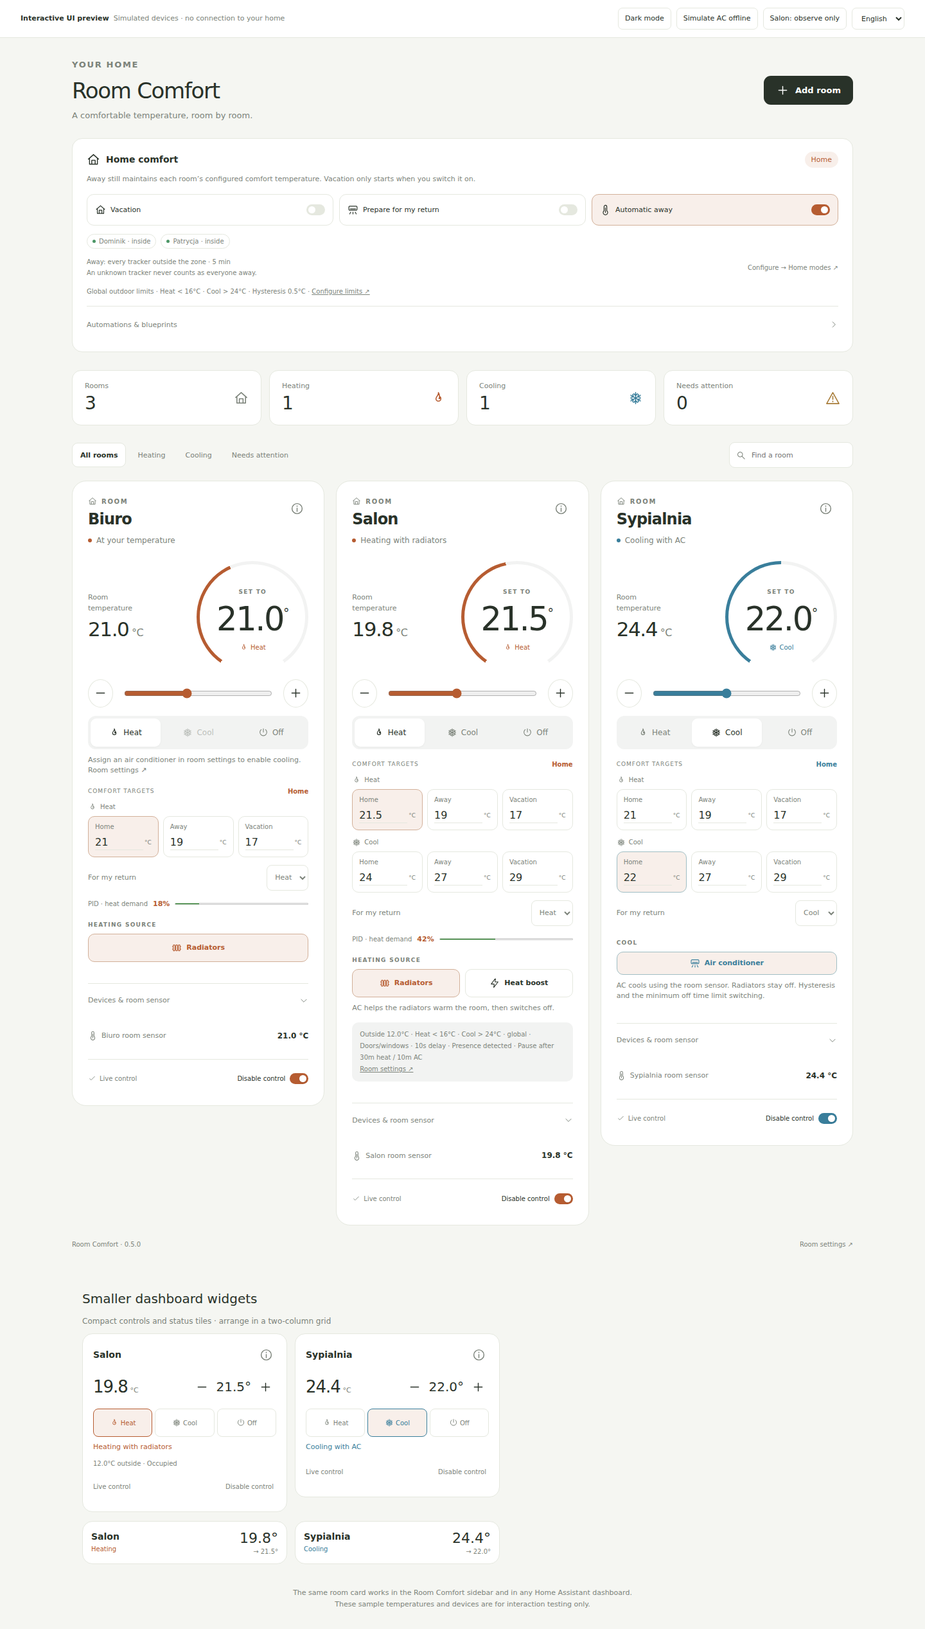
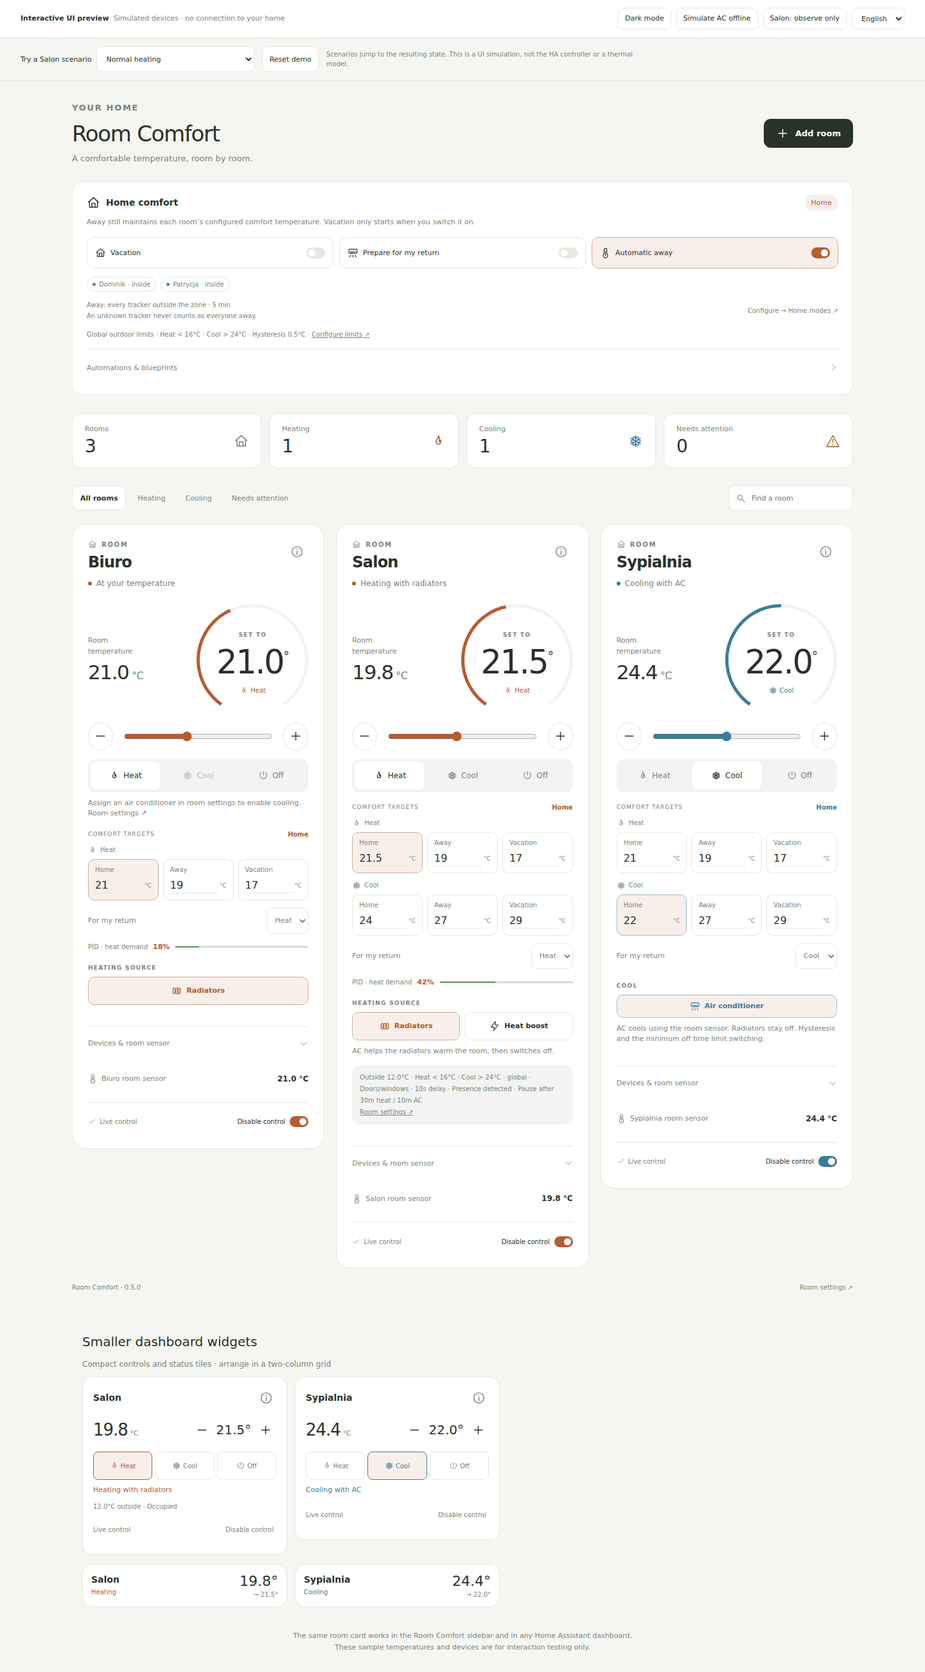
Add interactive GitHub Pages demo with scenario presets and project-path browser checks

diff --git a/preview.html b/preview.html
@@ -3,9 +3,11 @@
 <head>
   <meta charset="utf-8">
   <meta name="viewport" content="width=device-width, initial-scale=1">
-  <title>Room Comfort · Interactive UI preview</title>
+  <title>Room Comfort · Interactive demo</title>
+  <meta name="description" content="Try Room Comfort: radiator heating, AC cooling, room profiles, outdoor limits and compact Home Assistant dashboard cards using simulated devices.">
   <style>
     :root{--primary-background-color:#f5f6f2;--primary-text-color:#293229;--secondary-text-color:#7c837a;--divider-color:#e5e8df;--card-background-color:#fff;--primary-font-family:Inter,system-ui,-apple-system,BlinkMacSystemFont,"Segoe UI",sans-serif;color-scheme:light}
+    .demo-scenarios{display:flex;align-items:center;gap:12px;flex-wrap:wrap;padding:13px 32px;border-bottom:1px solid var(--divider-color);font-size:11px}.demo-scenarios label{display:flex;gap:8px;align-items:center;flex-wrap:wrap}.demo-scenarios select,.demo-scenarios button{font:inherit;color:inherit;background:var(--card-background-color);border:1px solid var(--divider-color);border-radius:8px;padding:8px 10px;min-height:40px}.demo-scenarios span{color:var(--secondary-text-color);font-size:10px;line-height:1.5;max-width:480px}@media(max-width:600px){.demo-scenarios{padding:12px 16px;gap:8px}.demo-scenarios span{width:100%}}
     *{box-sizing:border-box}body{margin:0;background:var(--primary-background-color);color:var(--primary-text-color);font-family:var(--primary-font-family)}.preview-bar{border-bottom:1px solid var(--divider-color);padding:12px 32px;display:flex;justify-content:space-between;align-items:center;gap:14px;font-size:11px;line-height:1.5;background:var(--card-background-color)}.preview-bar strong{font-weight:550}.preview-bar span{color:var(--secondary-text-color);margin-left:7px}.preview-actions{display:flex;gap:8px;flex-wrap:wrap}.preview-actions button,.preview-actions select{font:inherit;border:1px solid var(--divider-color);color:inherit;background:transparent;border-radius:7px;padding:7px 10px;cursor:pointer;min-height:34px}.toast{position:fixed;bottom:20px;left:50%;transform:translateX(-50%);max-width:90vw;border-radius:12px;padding:13px 18px;background:#26352c;color:#fff;box-shadow:0 5px 25px #0002;font-size:12px;z-index:10}.toast[hidden]{display:none}.demo-note{margin:0 32px 30px;color:var(--secondary-text-color);font-size:11px;text-align:center;line-height:1.6}@media(max-width:600px){.preview-bar{padding:10px 16px;align-items:flex-start;flex-direction:column;gap:9px}.preview-bar span{display:block;margin-left:0}.preview-actions{gap:5px}.preview-actions button,.preview-actions select{font-size:10px;padding:5px 8px}.demo-note{margin:0 20px 24px}}
   </style>
   <script>/* Room Comfort 0.5.0. Bundled, dependency-free Home Assistant web components. */
@@ -442,6 +444,7 @@
 </head>
 <body>
   <div class="preview-bar"><div><strong>Interactive UI preview</strong><span>Simulated devices · no connection to your home</span></div><div class="preview-actions"><button id="theme">Dark mode</button><button id="fault">Simulate AC offline</button><button id="observe">Salon: observe only</button><select id="language" aria-label="Preview language"><option value="en">English</option><option value="pl">Polski</option></select></div></div>
+  <section class="demo-scenarios" aria-label="Demo scenarios"><label>Try a Salon scenario <select id="scenario" aria-label="Demo scenario"><option value="normal">Normal heating</option><option value="outdoor">Warm outdoors · 18°C</option><option value="window">Window open · delay elapsed</option><option value="empty">Empty room · absence timer elapsed</option><option value="away">Everyone away · delay elapsed</option></select></label><button id="reset-demo">Reset demo</button><span>Scenarios jump to the resulting state. This is a UI simulation, not the HA controller or a thermal model.</span></section>
   <room-comfort-overview id="overview"></room-comfort-overview>
   <section id="widget-showcase" style="max-width:1216px;margin:0 auto 36px;padding:0 16px"><h2 style="font-size:20px;font-weight:500">Smaller dashboard widgets</h2><p style="font-size:12px;color:var(--secondary-text-color)">Compact controls and status tiles · arrange in a two-column grid</p><div id="compact-widgets" style="display:grid;grid-template-columns:repeat(2,minmax(0,1fr));gap:12px;max-width:650px"></div><div id="status-widgets" style="display:grid;grid-template-columns:repeat(2,minmax(0,1fr));gap:12px;max-width:650px;margin-top:14px"></div></section>
   <p class="demo-note">The same room card works in the Room Comfort sidebar and in any Home Assistant dashboard.<br>These sample temperatures and devices are for interaction testing only.</p>
@@ -450,6 +453,7 @@
     const states = {};
     const calls = [];
     let failNext = false;
+    let scenario = 'normal';
     const state = (id, value, attrs) => ({entity_id:id,state:value,attributes:attrs,last_changed:new Date().toISOString(),last_updated:new Date().toISOString()});
     const put = (id,value,attrs) => states[id]=state(id,value,attrs);
     function addRoom(slug,name,current,target,mode,status,rads,ac=true){
@@ -491,7 +495,16 @@
       a={...a,profile_temperatures:targets,profile_temperature_entities:ids,temperature:targets[a.home_profile==='prewarming'?'home':a.home_profile]};
       const boosting=a.boost_ends_at>Date.now()/1000;
       const desired=e.state==='heat'&&a.current_temperature<a.temperature?'heating':e.state==='cool'&&a.current_temperature>a.temperature?'cooling':e.state==='off'?'off':'idle';
-      const status=boosting&&desired==='heating'?'boosting':desired;
+      let status=boosting&&desired==='heating'?'boosting':desired;
+      if(e.entity_id==='climate.salon'&&e.state!=='off'){
+        if(scenario==='window')status='window_open';
+        else if(scenario==='empty'&&a.home_profile!=='prewarming')status='room_unoccupied';
+        else if(scenario==='outdoor'&&e.state==='heat')status='outdoor_heat_blocked';
+        // The enabled outdoor demo policy also restricts cooling at 12/18°C.
+        else if(e.state==='cool')status='outdoor_cool_blocked';
+      }
+      const blocked=['window_open','room_unoccupied','outdoor_heat_blocked','outdoor_cool_blocked'].includes(status);
+      a={...a,heat_demand_percent:['heating','boosting'].includes(status)?42:status==='idle'&&e.state==='heat'?18:0,condition_status:status==='window_open'||status==='room_unoccupied'?status:null,outdoor_status:status.startsWith('outdoor_')?status:null,...(blocked?{boost_ends_at:null,preset_mode:'radiators',heat_demand_percent:0}:{})};
       const attrs={...a,demand_status:status,controller_status:a.control_devices?status:'observe_only',desired_radiator_heat:['heating','boosting'].includes(status),desired_ac_mode:status==='boosting'?'heat':status==='cooling'?'cool':'off'};
       put(e.entity_id,e.state,attrs);
       if(a.control_devices){a.radiators.forEach(id=>replace(id,attrs.desired_radiator_heat?'heat':'off'));if(a.air_conditioner&&states[a.air_conditioner].state!=='unavailable')replace(a.air_conditioner,attrs.desired_ac_mode);}
@@ -529,7 +542,7 @@
           replace(id,service==='turn_on'?'on':'off');
           if(id===homeEntities.vacation&&service==='turn_on')replace(homeEntities.coming_home,'off');
           if(id===homeEntities.coming_home&&service==='turn_on')replace(homeEntities.vacation,'off');
-          homeProfile(states[homeEntities.coming_home].state==='on'?'prewarming':states[homeEntities.vacation].state==='on'?'vacation':'home');refresh();return;
+          homeProfile(states[homeEntities.coming_home].state==='on'?'prewarming':states[homeEntities.vacation].state==='on'?'vacation':scenario==='away'&&states[homeEntities.automatic_away].state==='on'?'away':'home');refresh();return;
         }
         if(domain==='switch'){
           replace(id,service==='turn_on'?'on':'off');
@@ -552,8 +565,32 @@
     }
     function refresh(){const current={...hass,states:{...states}};overview.hass=current;document.querySelectorAll('.demo-widget').forEach(card=>card.hass=current);}
 
+    const initialStates=JSON.parse(JSON.stringify(states));
+    function applyScenario(next){
+      scenario=next;
+      replace('sensor.outdoor',next==='outdoor'?'18':'12');
+      replace('binary_sensor.salon_window',next==='window'?'on':'off');
+      replace('binary_sensor.salon_presence',next==='empty'?'off':'on');
+      replace('climate.salon',null,{outdoor_temperature:next==='outdoor'?18:12,room_occupied:next!=='empty',window_pending:false,room_absent_since:next==='empty'?Date.now()/1000-1900:null});
+      for(const id of ['person.dominik','person.patrycja'])replace(id,next==='away'?'not_home':'home');
+      replace(homeEntities.mode,null,{memberships:{'person.dominik':next!=='away','person.patrycja':next!=='away'}});
+      homeProfile(states[homeEntities.coming_home].state==='on'?'prewarming':states[homeEntities.vacation].state==='on'?'vacation':next==='away'&&states[homeEntities.automatic_away].state==='on'?'away':'home');
+      refresh();
+    }
+    document.getElementById('scenario').addEventListener('change',e=>applyScenario(e.target.value));
+    document.getElementById('reset-demo').addEventListener('click',()=>{
+      for(const id of Object.keys(states))delete states[id];Object.assign(states,JSON.parse(JSON.stringify(initialStates)));
+      calls.length=0;failNext=false;scenario='normal';document.getElementById('scenario').value='normal';
+      document.getElementById('fault').textContent='Simulate AC offline';refresh();
+    });
     refresh();
     let toastTimer;
+    document.addEventListener('click',event=>{
+      const link=event.composedPath().find(node=>node.tagName==='A');
+      if(!link?.getAttribute('href')?.startsWith('/config/'))return;
+      event.preventDefault();
+      const toast=document.getElementById('toast');toast.textContent='This opens configuration in your installed Home Assistant. The public demo uses simulated entities.';toast.hidden=false;clearTimeout(toastTimer);toastTimer=setTimeout(()=>toast.hidden=true,6000);
+    },true);
     document.addEventListener('hass-more-info',e=>{const toast=document.getElementById('toast');toast.textContent=`Home Assistant opens details & history for ${e.detail.entityId}`;toast.hidden=false;clearTimeout(toastTimer);toastTimer=setTimeout(()=>toast.hidden=true,4000);});
     document.getElementById('theme').addEventListener('click',()=>{
       const dark=document.documentElement.dataset.theme!=='dark';document.documentElement.dataset.theme=dark?'dark':'light';

diff --git a/dev/index.html b/dev/index.html
@@ -3,15 +3,18 @@
 <head>
   <meta charset="utf-8">
   <meta name="viewport" content="width=device-width, initial-scale=1">
-  <title>Room Comfort · Interactive UI preview</title>
+  <title>Room Comfort · Interactive demo</title>
+  <meta name="description" content="Try Room Comfort: radiator heating, AC cooling, room profiles, outdoor limits and compact Home Assistant dashboard cards using simulated devices.">
   <style>
     :root{--primary-background-color:#f5f6f2;--primary-text-color:#293229;--secondary-text-color:#7c837a;--divider-color:#e5e8df;--card-background-color:#fff;--primary-font-family:Inter,system-ui,-apple-system,BlinkMacSystemFont,"Segoe UI",sans-serif;color-scheme:light}
+    .demo-scenarios{display:flex;align-items:center;gap:12px;flex-wrap:wrap;padding:13px 32px;border-bottom:1px solid var(--divider-color);font-size:11px}.demo-scenarios label{display:flex;gap:8px;align-items:center;flex-wrap:wrap}.demo-scenarios select,.demo-scenarios button{font:inherit;color:inherit;background:var(--card-background-color);border:1px solid var(--divider-color);border-radius:8px;padding:8px 10px;min-height:40px}.demo-scenarios span{color:var(--secondary-text-color);font-size:10px;line-height:1.5;max-width:480px}@media(max-width:600px){.demo-scenarios{padding:12px 16px;gap:8px}.demo-scenarios span{width:100%}}
     *{box-sizing:border-box}body{margin:0;background:var(--primary-background-color);color:var(--primary-text-color);font-family:var(--primary-font-family)}.preview-bar{border-bottom:1px solid var(--divider-color);padding:12px 32px;display:flex;justify-content:space-between;align-items:center;gap:14px;font-size:11px;line-height:1.5;background:var(--card-background-color)}.preview-bar strong{font-weight:550}.preview-bar span{color:var(--secondary-text-color);margin-left:7px}.preview-actions{display:flex;gap:8px;flex-wrap:wrap}.preview-actions button,.preview-actions select{font:inherit;border:1px solid var(--divider-color);color:inherit;background:transparent;border-radius:7px;padding:7px 10px;cursor:pointer;min-height:34px}.toast{position:fixed;bottom:20px;left:50%;transform:translateX(-50%);max-width:90vw;border-radius:12px;padding:13px 18px;background:#26352c;color:#fff;box-shadow:0 5px 25px #0002;font-size:12px;z-index:10}.toast[hidden]{display:none}.demo-note{margin:0 32px 30px;color:var(--secondary-text-color);font-size:11px;text-align:center;line-height:1.6}@media(max-width:600px){.preview-bar{padding:10px 16px;align-items:flex-start;flex-direction:column;gap:9px}.preview-bar span{display:block;margin-left:0}.preview-actions{gap:5px}.preview-actions button,.preview-actions select{font-size:10px;padding:5px 8px}.demo-note{margin:0 20px 24px}}
   </style>
   <script src="/custom_components/room_comfort/frontend/room-comfort.js"></script>
 </head>
 <body>
   <div class="preview-bar"><div><strong>Interactive UI preview</strong><span>Simulated devices · no connection to your home</span></div><div class="preview-actions"><button id="theme">Dark mode</button><button id="fault">Simulate AC offline</button><button id="observe">Salon: observe only</button><select id="language" aria-label="Preview language"><option value="en">English</option><option value="pl">Polski</option></select></div></div>
+  <section class="demo-scenarios" aria-label="Demo scenarios"><label>Try a Salon scenario <select id="scenario" aria-label="Demo scenario"><option value="normal">Normal heating</option><option value="outdoor">Warm outdoors · 18°C</option><option value="window">Window open · delay elapsed</option><option value="empty">Empty room · absence timer elapsed</option><option value="away">Everyone away · delay elapsed</option></select></label><button id="reset-demo">Reset demo</button><span>Scenarios jump to the resulting state. This is a UI simulation, not the HA controller or a thermal model.</span></section>
   <room-comfort-overview id="overview"></room-comfort-overview>
   <section id="widget-showcase" style="max-width:1216px;margin:0 auto 36px;padding:0 16px"><h2 style="font-size:20px;font-weight:500">Smaller dashboard widgets</h2><p style="font-size:12px;color:var(--secondary-text-color)">Compact controls and status tiles · arrange in a two-column grid</p><div id="compact-widgets" style="display:grid;grid-template-columns:repeat(2,minmax(0,1fr));gap:12px;max-width:650px"></div><div id="status-widgets" style="display:grid;grid-template-columns:repeat(2,minmax(0,1fr));gap:12px;max-width:650px;margin-top:14px"></div></section>
   <p class="demo-note">The same room card works in the Room Comfort sidebar and in any Home Assistant dashboard.<br>These sample temperatures and devices are for interaction testing only.</p>
@@ -20,6 +23,7 @@
     const states = {};
     const calls = [];
     let failNext = false;
+    let scenario = 'normal';
     const state = (id, value, attrs) => ({entity_id:id,state:value,attributes:attrs,last_changed:new Date().toISOString(),last_updated:new Date().toISOString()});
     const put = (id,value,attrs) => states[id]=state(id,value,attrs);
     function addRoom(slug,name,current,target,mode,status,rads,ac=true){
@@ -61,7 +65,16 @@
       a={...a,profile_temperatures:targets,profile_temperature_entities:ids,temperature:targets[a.home_profile==='prewarming'?'home':a.home_profile]};
       const boosting=a.boost_ends_at>Date.now()/1000;
       const desired=e.state==='heat'&&a.current_temperature<a.temperature?'heating':e.state==='cool'&&a.current_temperature>a.temperature?'cooling':e.state==='off'?'off':'idle';
-      const status=boosting&&desired==='heating'?'boosting':desired;
+      let status=boosting&&desired==='heating'?'boosting':desired;
+      if(e.entity_id==='climate.salon'&&e.state!=='off'){
+        if(scenario==='window')status='window_open';
+        else if(scenario==='empty'&&a.home_profile!=='prewarming')status='room_unoccupied';
+        else if(scenario==='outdoor'&&e.state==='heat')status='outdoor_heat_blocked';
+        // The enabled outdoor demo policy also restricts cooling at 12/18°C.
+        else if(e.state==='cool')status='outdoor_cool_blocked';
+      }
+      const blocked=['window_open','room_unoccupied','outdoor_heat_blocked','outdoor_cool_blocked'].includes(status);
+      a={...a,heat_demand_percent:['heating','boosting'].includes(status)?42:status==='idle'&&e.state==='heat'?18:0,condition_status:status==='window_open'||status==='room_unoccupied'?status:null,outdoor_status:status.startsWith('outdoor_')?status:null,...(blocked?{boost_ends_at:null,preset_mode:'radiators',heat_demand_percent:0}:{})};
       const attrs={...a,demand_status:status,controller_status:a.control_devices?status:'observe_only',desired_radiator_heat:['heating','boosting'].includes(status),desired_ac_mode:status==='boosting'?'heat':status==='cooling'?'cool':'off'};
       put(e.entity_id,e.state,attrs);
       if(a.control_devices){a.radiators.forEach(id=>replace(id,attrs.desired_radiator_heat?'heat':'off'));if(a.air_conditioner&&states[a.air_conditioner].state!=='unavailable')replace(a.air_conditioner,attrs.desired_ac_mode);}
@@ -99,7 +112,7 @@
           replace(id,service==='turn_on'?'on':'off');
           if(id===homeEntities.vacation&&service==='turn_on')replace(homeEntities.coming_home,'off');
           if(id===homeEntities.coming_home&&service==='turn_on')replace(homeEntities.vacation,'off');
-          homeProfile(states[homeEntities.coming_home].state==='on'?'prewarming':states[homeEntities.vacation].state==='on'?'vacation':'home');refresh();return;
+          homeProfile(states[homeEntities.coming_home].state==='on'?'prewarming':states[homeEntities.vacation].state==='on'?'vacation':scenario==='away'&&states[homeEntities.automatic_away].state==='on'?'away':'home');refresh();return;
         }
         if(domain==='switch'){
           replace(id,service==='turn_on'?'on':'off');
@@ -122,8 +135,32 @@
     }
     function refresh(){const current={...hass,states:{...states}};overview.hass=current;document.querySelectorAll('.demo-widget').forEach(card=>card.hass=current);}
 
+    const initialStates=JSON.parse(JSON.stringify(states));
+    function applyScenario(next){
+      scenario=next;
+      replace('sensor.outdoor',next==='outdoor'?'18':'12');
+      replace('binary_sensor.salon_window',next==='window'?'on':'off');
+      replace('binary_sensor.salon_presence',next==='empty'?'off':'on');
+      replace('climate.salon',null,{outdoor_temperature:next==='outdoor'?18:12,room_occupied:next!=='empty',window_pending:false,room_absent_since:next==='empty'?Date.now()/1000-1900:null});
+      for(const id of ['person.dominik','person.patrycja'])replace(id,next==='away'?'not_home':'home');
+      replace(homeEntities.mode,null,{memberships:{'person.dominik':next!=='away','person.patrycja':next!=='away'}});
+      homeProfile(states[homeEntities.coming_home].state==='on'?'prewarming':states[homeEntities.vacation].state==='on'?'vacation':next==='away'&&states[homeEntities.automatic_away].state==='on'?'away':'home');
+      refresh();
+    }
+    document.getElementById('scenario').addEventListener('change',e=>applyScenario(e.target.value));
+    document.getElementById('reset-demo').addEventListener('click',()=>{
+      for(const id of Object.keys(states))delete states[id];Object.assign(states,JSON.parse(JSON.stringify(initialStates)));
+      calls.length=0;failNext=false;scenario='normal';document.getElementById('scenario').value='normal';
+      document.getElementById('fault').textContent='Simulate AC offline';refresh();
+    });
     refresh();
     let toastTimer;
+    document.addEventListener('click',event=>{
+      const link=event.composedPath().find(node=>node.tagName==='A');
+      if(!link?.getAttribute('href')?.startsWith('/config/'))return;
+      event.preventDefault();
+      const toast=document.getElementById('toast');toast.textContent='This opens configuration in your installed Home Assistant. The public demo uses simulated entities.';toast.hidden=false;clearTimeout(toastTimer);toastTimer=setTimeout(()=>toast.hidden=true,6000);
+    },true);
     document.addEventListener('hass-more-info',e=>{const toast=document.getElementById('toast');toast.textContent=`Home Assistant opens details & history for ${e.detail.entityId}`;toast.hidden=false;clearTimeout(toastTimer);toastTimer=setTimeout(()=>toast.hidden=true,4000);});
     document.getElementById('theme').addEventListener('click',()=>{
       const dark=document.documentElement.dataset.theme!=='dark';document.documentElement.dataset.theme=dark?'dark':'light';

diff --git a/scripts/build_demo.py b/scripts/build_demo.py
@@ -1,0 +1,32 @@
+"""Build a portable static demo from the development page and production cards."""
+
+import argparse
+from pathlib import Path
+import shutil
+
+ROOT = Path(__file__).resolve().parents[1]
+SCRIPT_TAG = '<script src="/custom_components/room_comfort/frontend/room-comfort.js"></script>'
+
+
+def build(output: Path, standalone: bool = False):
+    source = (ROOT / "dev/index.html").read_text()
+    frontend = ROOT / "custom_components/room_comfort/frontend/room-comfort.js"
+    if source.count(SCRIPT_TAG) != 1:
+        raise ValueError("The demo must reference exactly one production card bundle")
+    assets = output / "assets"
+    assets.mkdir(parents=True, exist_ok=True)
+    shutil.copyfile(frontend, assets / "room-comfort.js")
+    (output / "index.html").write_text(source.replace(SCRIPT_TAG, '<script src="./assets/room-comfort.js"></script>'))
+    (output / ".nojekyll").write_text("")
+    if standalone:
+        script = frontend.read_text().replace("</script", "<\\/script")
+        (ROOT / "preview.html").write_text(source.replace(SCRIPT_TAG, f"<script>{script}</script>"))
+    print(output.resolve())
+
+
+if __name__ == "__main__":
+    parser = argparse.ArgumentParser(description=__doc__)
+    parser.add_argument("--output", type=Path, default=ROOT / "dist/demo")
+    parser.add_argument("--standalone", action="store_true", help="Also regenerate preview.html")
+    args = parser.parse_args()
+    build(args.output, args.standalone)

diff --git a/README.md b/README.md
@@ -14,6 +14,21 @@ room make it unnecessary.
 
 [Install](#installation) · [Quick start](#quick-start) · [Dashboard cards](#dashboard-cards) · [Outdoor limits](#outdoor-temperature-limits) · [Windows & presence](#doors-windows-and-room-presence) · [Blueprints](docs/automations.md) · [Troubleshooting](#troubleshooting)
 
+## Try the interactive demo
+
+[**Open the demo →**](https://qmciaq.github.io/ha-room-comfort/)
+
+Try Heat/Cool/Off, targets, AC boost, Vacation, Coming home, compact widgets,
+English/Polish and light/dark themes. Scenario presets demonstrate outdoor gates,
+an open window, elapsed room absence and everyone being away. **All devices and
+readings are simulated**; nothing connects to a Home Assistant installation.
+Scenarios jump to the resulting state rather than running the Python controller
+or modelling room physics. Reset restores the original sample rooms.
+
+The demo deploys through the [Deploy interactive demo workflow](https://github.com/qmciaq/ha-room-comfort/actions/workflows/demo.yml).
+For the first deployment, the owner must select **Settings → Pages → Source →
+GitHub Actions**, then rerun the workflow. No extra token or secret is needed.
+
 ![Room Comfort overview — simulated rooms](docs/images/desktop.png)
 
 ## What you get
@@ -264,6 +279,11 @@ interactive simulated-device UI. The optional real-Core smoke check uses an isol
 HA 2026.10.4 instance with simulated devices; install `homeassistant==2026.10.4` and
 `home-assistant-frontend==20260930.5` under Python 3.14, then run
 `python scripts/smoke_ha.py`. It never connects to your live HA.
+
+`python3 scripts/build_demo.py --standalone` builds the portable Pages site in
+`dist/demo/` and refreshes `preview.html`. The site uses relative asset paths and
+is tested under the `/ha-room-comfort/` project prefix before deployment. Only the
+demo HTML and the production card bundle are uploaded to Pages.
 
 Related projects: see
 [Mushroom](https://github.com/piitaya/lovelace-mushroom),
